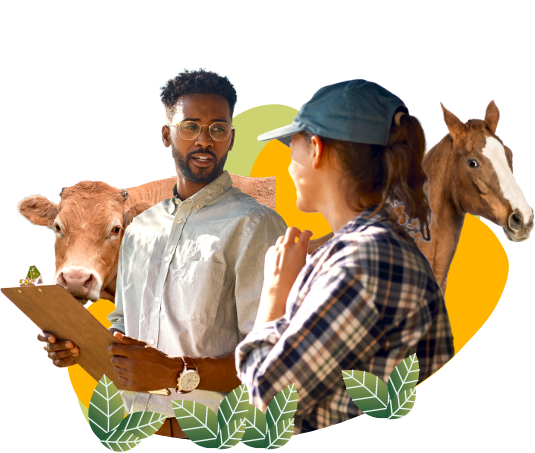
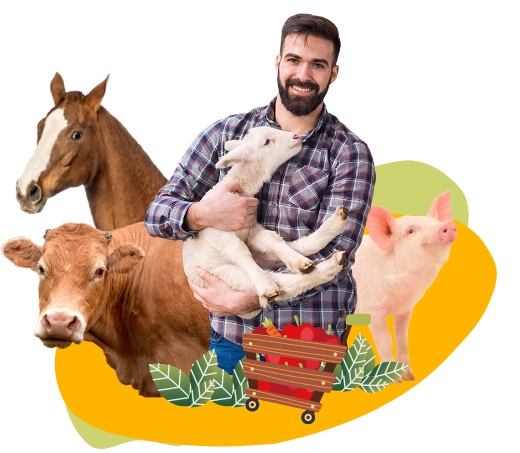
actualizando

diff --git a/src/styles/_custom.sass b/src/styles/_custom.sass
@@ -5,9 +5,24 @@
     top: 8%
     right: 8%
   &-2
-    animation: float1 9s ease-in-out infinite alternate
+    animation: float1 5s ease-in-out infinite alternate
     position: absolute
-    top: 58%
+    top: 10%
+    right: 80%
+  &-3
+    animation: float1 3s ease-in-out infinite alternate
+    position: absolute
+    top: 25%
+    right: 35%
+  &-4
+    animation: float2 6s ease-in-out infinite alternate
+    position: absolute
+    top: 18%
+    right: 67%
+  &-5
+    animation: float2 4s ease-in-out infinite alternate
+    position: absolute
+    top: 20%
     right: 20%
 
 @keyframes float1
@@ -16,6 +31,13 @@
 
   100%
     transform: translateX(0px)
+
+@keyframes float2
+  0%
+    transform: translateY(20px)
+
+  100%
+    transform: translateY(0px)
 
 @-webkit-keyframes rotation 
   from 

diff --git a/src/config/global.js b/src/config/global.js
@@ -15,6 +15,18 @@ export default {
         clases: ['banner-principal-decorativo-2'],
         imagen: require('@/assets/curso/portada/banner-principal-decorativo-2.svg'),
       },
+      {
+        clases: ['banner-principal-decorativo-3'],
+        imagen: require('@/assets/curso/portada/banner-principal-decorativo-3.svg'),
+      },
+      {
+        clases: ['banner-principal-decorativo-4'],
+        imagen: require('@/assets/curso/portada/banner-principal-decorativo-4.svg'),
+      },
+      {
+        clases: ['banner-principal-decorativo-5'],
+        imagen: require('@/assets/curso/portada/banner-principal-decorativo-5.svg'),
+      },
     ],
   },
   menuPrincipal: {
